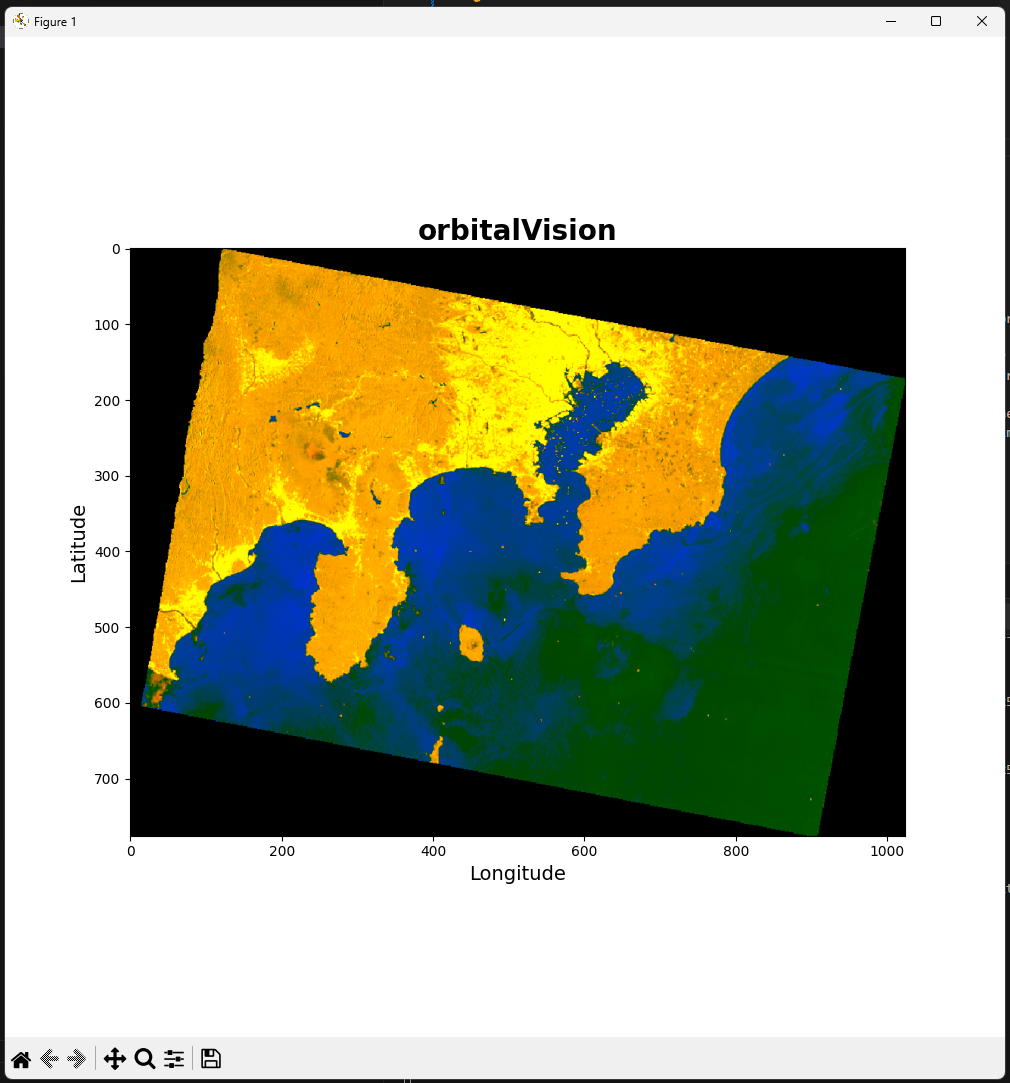
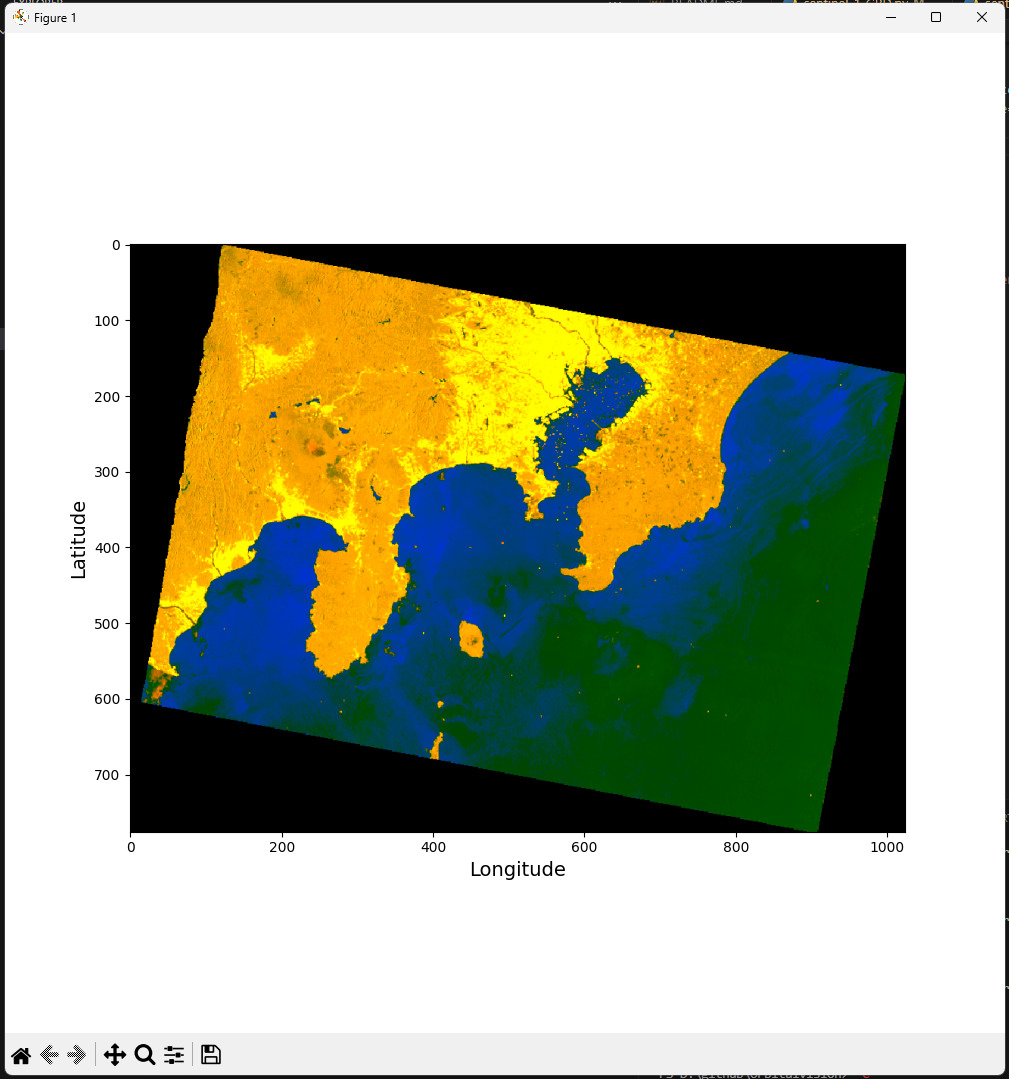
updated titel

diff --git a/examples/sentinel-1-GRD.py b/examples/sentinel-1-GRD.py
@@ -76,9 +76,6 @@ for item in items:
         plt.xlabel("Longitude", fontsize=14)
         plt.ylabel("Latitude", fontsize=14)
 
-        # Add a title to the plot
-        plt.title("orbitalVision", fontsize=20, fontweight='bold')
-
         # Add a grid
         plt.grid(False)
 

diff --git a/examples/sentinel-1-RTC.py b/examples/sentinel-1-RTC.py
@@ -76,9 +76,6 @@ for item in items:
         plt.xlabel("Longitude", fontsize=14)
         plt.ylabel("Latitude", fontsize=14)
 
-        # Add a title to the plot
-        plt.title("orbitalVision", fontsize=20, fontweight='bold')
-
         # Add a grid
         plt.grid(False)
 

diff --git a/template.py b/template.py
@@ -76,9 +76,6 @@ for item in items:
         plt.xlabel("Longitude", fontsize=14)
         plt.ylabel("Latitude", fontsize=14)
 
-        # Add a title to the plot
-        plt.title("orbitalVision", fontsize=20, fontweight='bold')
-
         # Add a grid
         plt.grid(False)
 
